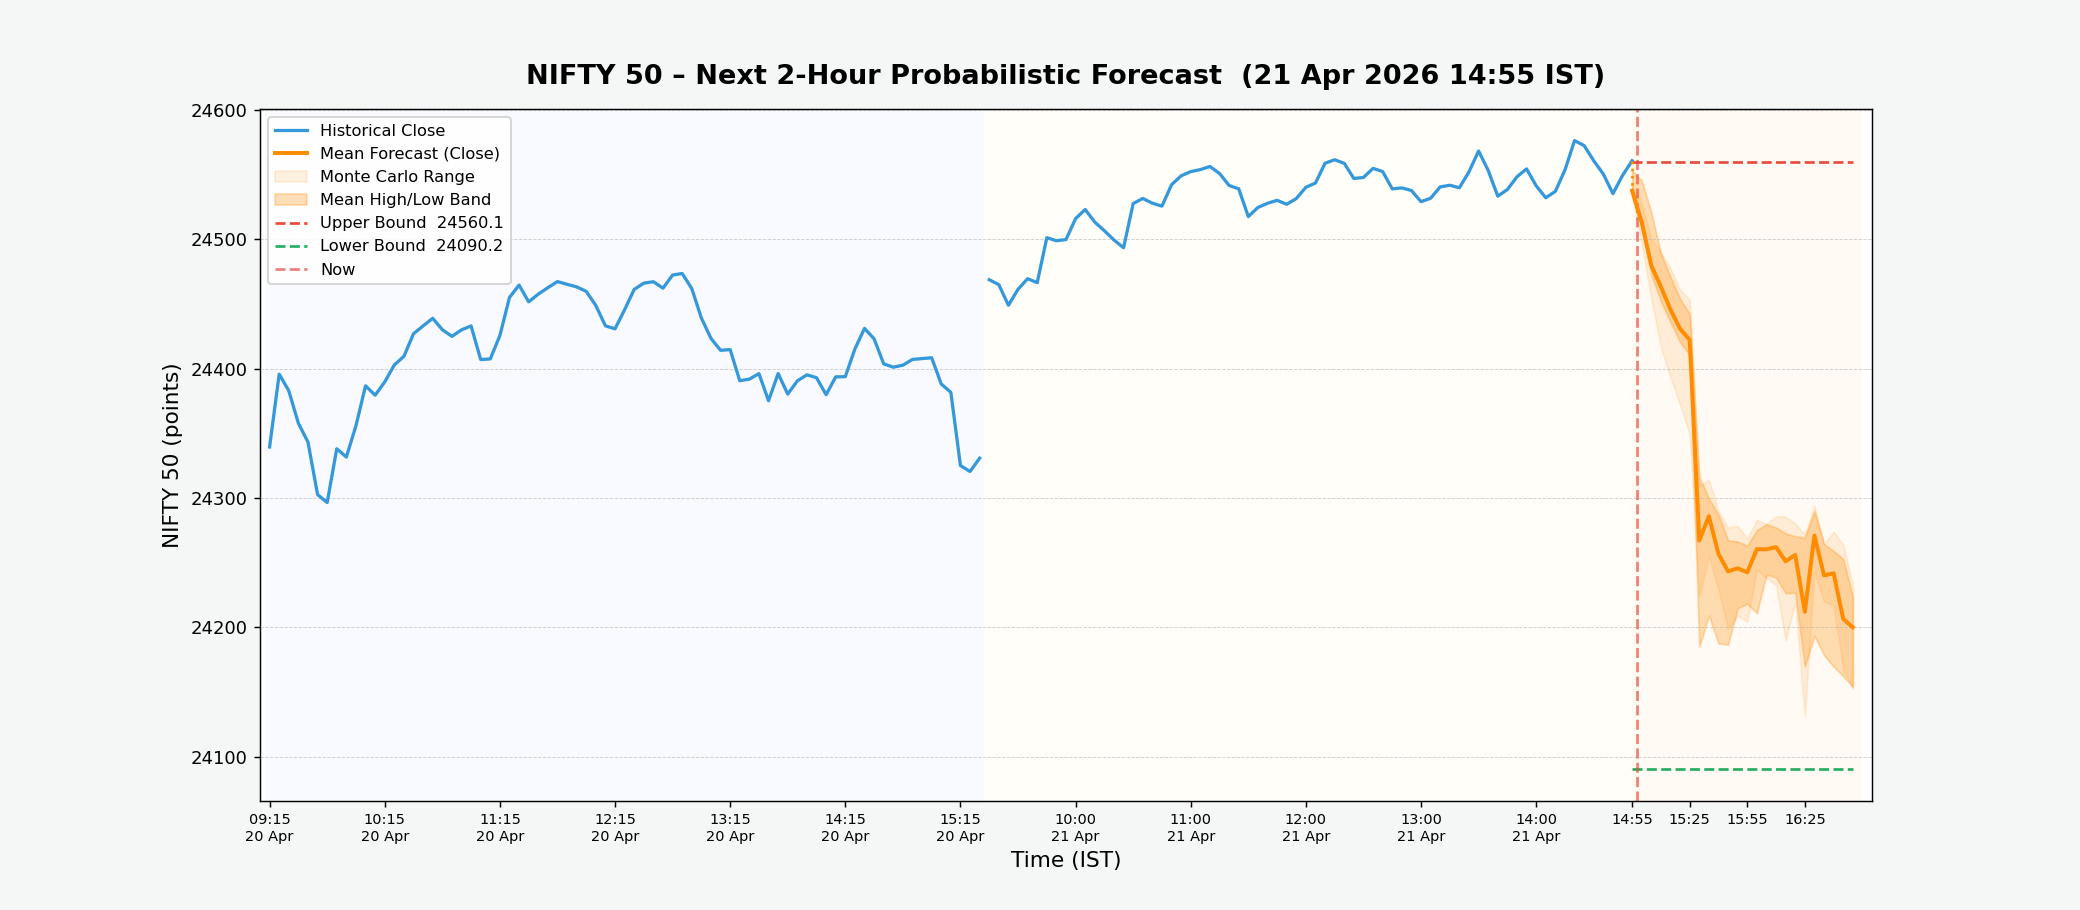
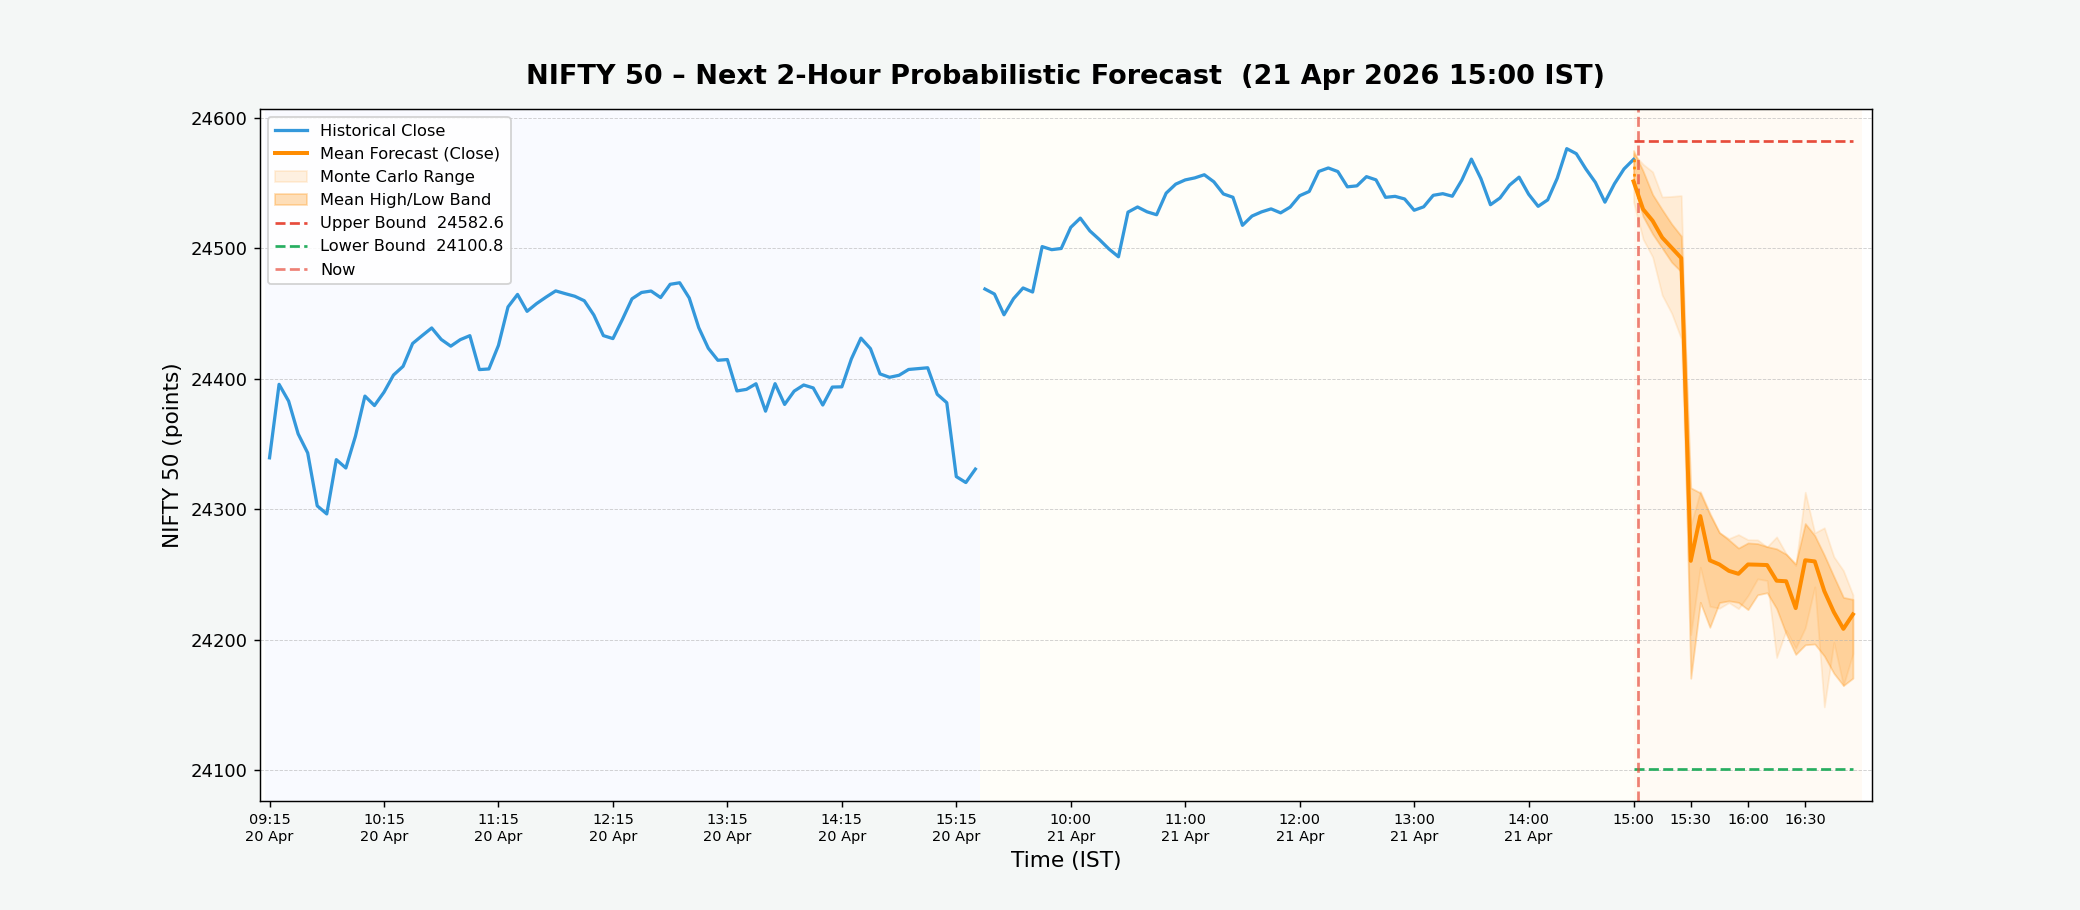
NIFTY forecast update – 2026-04-21 15:00 IST

diff --git a/index.html b/index.html
@@ -24,29 +24,29 @@
 
         <!-- Timestamp bar -->
         <div class="timestamp-bar">
-            <span>Last updated (IST):&nbsp;<strong id="update-time">2026-04-21 14:55:04</strong></span>
+            <span>Last updated (IST):&nbsp;<strong id="update-time">2026-04-21 15:00:04</strong></span>
         </div>
 
         <!-- Metric cards -->
         <div class="metrics-container">
             <div class="metric-card bullish">
                 <div class="metric-label">Bullish Bar Ratio</div>
-                <div class="metric-value" id="upside-prob">33.8%</div>
+                <div class="metric-value" id="upside-prob">38.8%</div>
                 <div class="metric-sub">Next 2h · close &gt; open %</div>
             </div>
             <div class="metric-card upper">
                 <div class="metric-label">Upper Bound</div>
-                <div class="metric-value" id="upper-bound">24560.1</div>
+                <div class="metric-value" id="upper-bound">24582.6</div>
                 <div class="metric-sub">Max predicted high</div>
             </div>
             <div class="metric-card lower">
                 <div class="metric-label">Lower Bound</div>
-                <div class="metric-value" id="lower-bound">24090.2</div>
+                <div class="metric-value" id="lower-bound">24100.8</div>
                 <div class="metric-sub">Min predicted low</div>
             </div>
             <div class="metric-card range">
                 <div class="metric-label">Predicted Range</div>
-                <div class="metric-value" id="pred-range">469.9 pts</div>
+                <div class="metric-value" id="pred-range">481.8 pts</div>
                 <div class="metric-sub">Upper − Lower spread</div>
             </div>
         </div>
